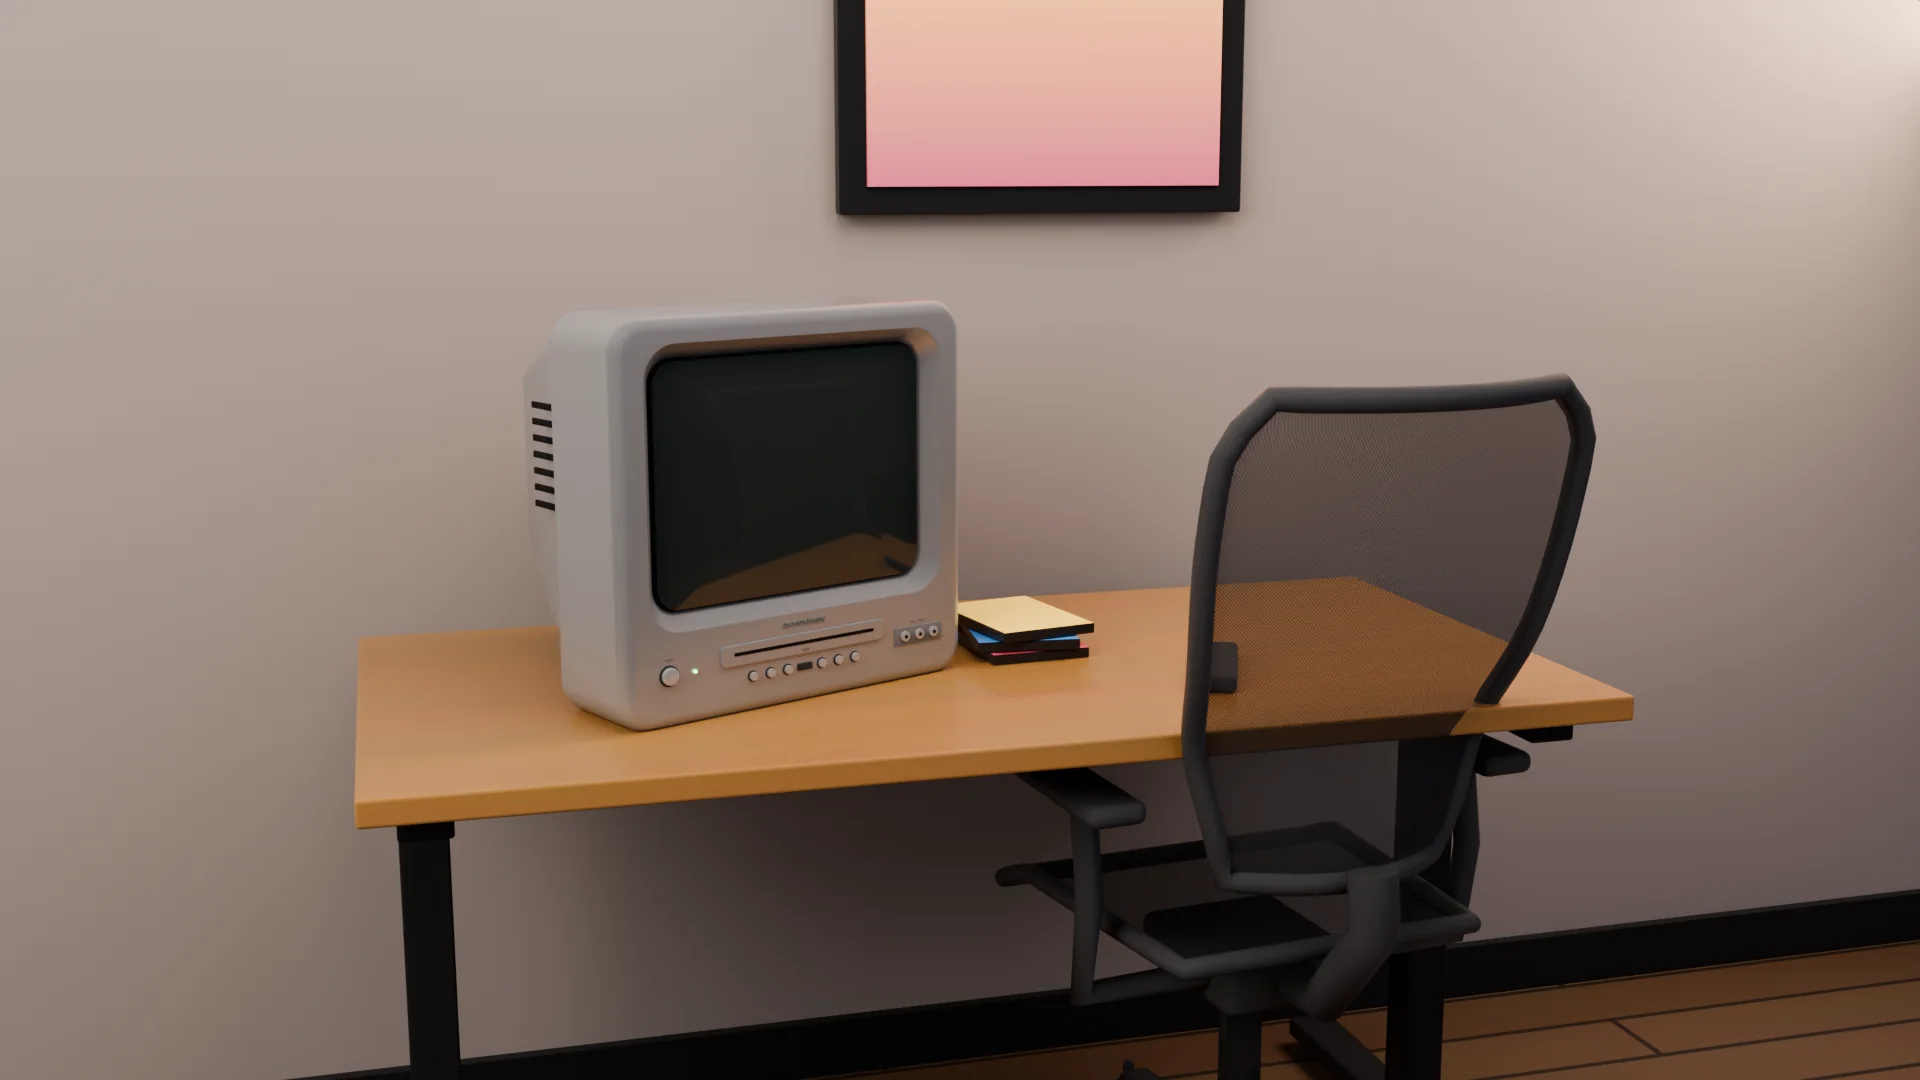
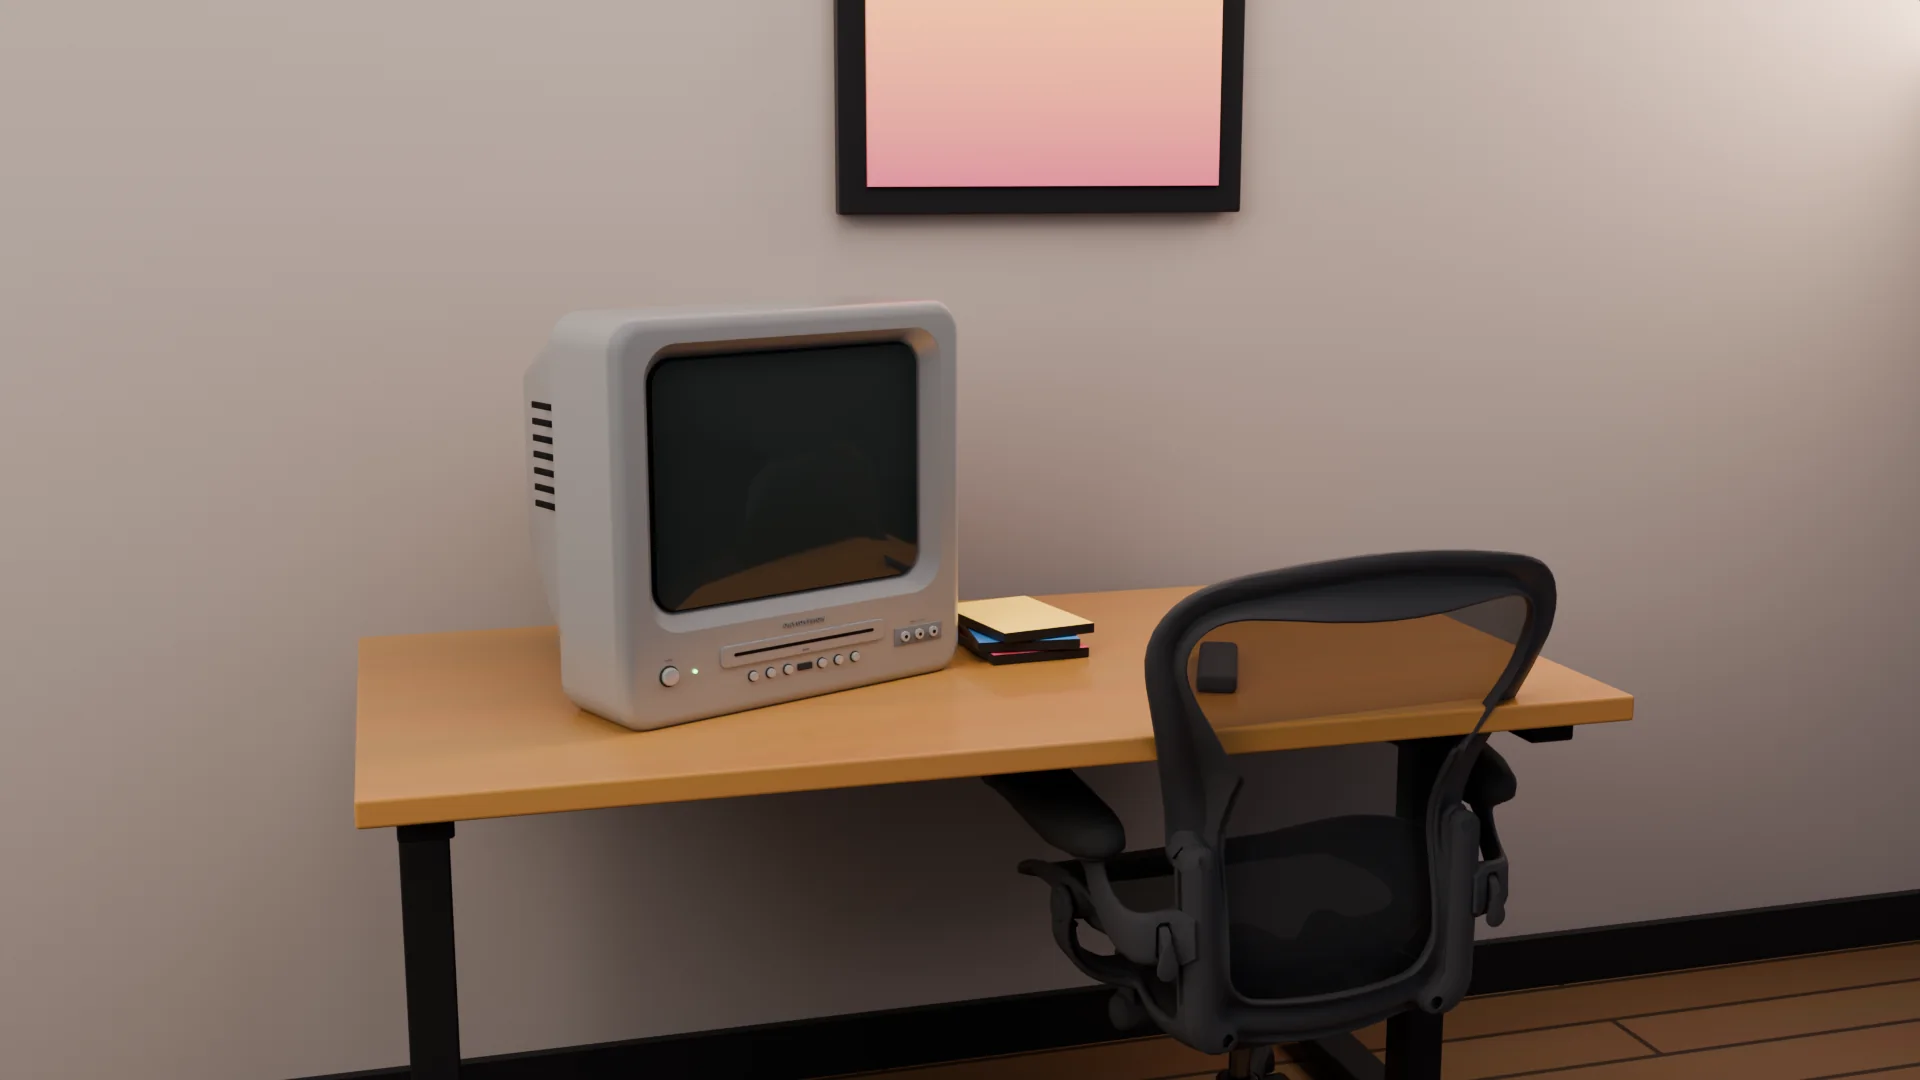
Use Herman Miller's official Aeron model in the desk scene (#10)
Replaces the hand-built chair with HM's Aeron B (fully adjustable arms)
AutoCAD 3D model, converted to OBJ with scripts/dwg_to_obj.mjs. The model
itself stays out of the repo (scripts/models/ is ignored).

Claude-Session: https://claude.ai/code/session_015thBKB6X8zqKZkDvYAUikM

Changed region(s): [[0.5, 0.3361, 0.8438, 1.0], [0.5625, 0.9778, 0.5938, 1.0]]

diff --git a/scripts/chair_model.py b/scripts/chair_model.py
@@ -1,176 +1,83 @@
-"""Mesh-back office chair in the shape of a Herman Miller Aeron (size B), in metres.
+"""Herman Miller Aeron (size B, fully adjustable arms), from Herman Miller's own 3D model.
+
+The model isn't kept in the repo. Download the "AutoCAD 3D" file from
+https://www.hermanmiller.com/resources/3d-models-and-planning-tools/product-models/individual/aeron-chair-b-size-fully-adjustable-arms/
+and convert it with scripts/dwg_to_obj.mjs to scripts/models/aeron.obj (or set AERON_OBJ).
 
 Faces +Y (toward the desk). build() returns an empty that everything is parented to,
-with its origin on the floor under the gas cylinder.
+with its origin on the floor under the gas cylinder. Units are metres.
 """
 import math
+import os
 
 import bpy
 import bmesh
-from mathutils import Vector
 
-SEAT_Z = 0.45
+OBJ = os.environ.get("AERON_OBJ", os.path.join(os.path.dirname(os.path.abspath(__file__)), "models", "aeron.obj"))
+INCH = 0.0254
 
 
-def _mat(name, color, rough=0.5, metallic=0.0, alpha=1.0, weave=False):
+def _mat(name, color, rough=0.5, metallic=0.0, weave=False):
     m = bpy.data.materials.new(name)
     m.use_nodes = True
-    p = m.node_tree.nodes["Principled BSDF"]
+    nt = m.node_tree
+    p = nt.nodes["Principled BSDF"]
     p.inputs["Base Color"].default_value = (*color, 1)
     p.inputs["Roughness"].default_value = rough
     p.inputs["Metallic"].default_value = metallic
     if weave:
-        # Pellicle: a fine see-through weave.
-        nt = m.node_tree
+        # Pellicle: a fine see-through weave (the model has no UVs, so use object space).
         tc = nt.nodes.new("ShaderNodeTexCoord")
         ck = nt.nodes.new("ShaderNodeTexChecker")
-        ck.inputs["Scale"].default_value = 260.0
+        ck.inputs["Scale"].default_value = 450.0
         ck.inputs["Color1"].default_value = (1, 1, 1, 1)
-        ck.inputs["Color2"].default_value = (0.45, 0.45, 0.45, 1)
-        nt.links.new(tc.outputs["UV"], ck.inputs["Vector"])
+        ck.inputs["Color2"].default_value = (0.4, 0.4, 0.4, 1)
+        nt.links.new(tc.outputs["Object"], ck.inputs["Vector"])
         mr = nt.nodes.new("ShaderNodeMapRange")
-        mr.inputs["To Min"].default_value = alpha - 0.2
-        mr.inputs["To Max"].default_value = alpha
+        mr.inputs["To Min"].default_value = 0.6
+        mr.inputs["To Max"].default_value = 0.85
         nt.links.new(ck.outputs["Fac"], mr.inputs["Value"])
         nt.links.new(mr.outputs["Result"], p.inputs["Alpha"])
-    elif alpha < 1:
-        p.inputs["Alpha"].default_value = alpha
     return m
-
-
-def _tube(name, pts, radius, material, cyclic=False, flat=1.0):
-    cu = bpy.data.curves.new(name, "CURVE")
-    cu.dimensions = "3D"
-    cu.bevel_depth = radius
-    cu.bevel_resolution = 4
-    cu.use_fill_caps = True
-    sp = cu.splines.new("POLY")
-    sp.points.add(len(pts) - 1)
-    for p, v in zip(sp.points, pts):
-        p.co = (*v, 1)
-    sp.use_cyclic_u = cyclic
-    ob = bpy.data.objects.new(name, cu)
-    bpy.context.scene.collection.objects.link(ob)
-    ob.data.materials.append(material)
-    return ob
-
-
-def _surface(name, fn, nu, nv, material):
-    """Grid surface from fn(u, v) -> (x, y, z), u and v in 0..1, with UVs."""
-    bm = bmesh.new()
-    uv = bm.loops.layers.uv.new()
-    vs = [[bm.verts.new(fn(i / nu, j / nv)) for i in range(nu + 1)] for j in range(nv + 1)]
-    for j in range(nv):
-        for i in range(nu):
-            f = bm.faces.new((vs[j][i], vs[j][i + 1], vs[j + 1][i + 1], vs[j + 1][i]))
-            for loop, (a, b) in zip(f.loops, [(i, j), (i + 1, j), (i + 1, j + 1), (i, j + 1)]):
-                loop[uv].uv = (a / nu, b / nv)
-    me = bpy.data.meshes.new(name)
-    bm.to_mesh(me)
-    for p in me.polygons:
-        p.use_smooth = True
-    ob = bpy.data.objects.new(name, me)
-    bpy.context.scene.collection.objects.link(ob)
-    ob.data.materials.append(material)
-    return ob, vs
-
-
-def _outline(fn, nu, nv):
-    """Points around the border of a _surface grid, in order."""
-    pts = [fn(i / nu, 0) for i in range(nu + 1)]
-    pts += [fn(1, j / nv) for j in range(1, nv + 1)]
-    pts += [fn(i / nu, 1) for i in range(nu - 1, -1, -1)]
-    pts += [fn(0, j / nv) for j in range(nv - 1, 0, -1)]
-    return pts
-
-
-def _box(name, size, loc, material, rot=(0, 0, 0), bevel=0.01):
-    bpy.ops.mesh.primitive_cube_add(size=1, location=loc, rotation=rot)
-    ob = bpy.context.object
-    ob.name = name
-    ob.scale = size
-    bpy.ops.object.transform_apply(scale=True)
-    m = ob.modifiers.new("b", "BEVEL")
-    m.width = bevel
-    m.segments = 4
-    bpy.ops.object.shade_smooth()
-    ob.data.materials.append(material)
-    return ob
-
-
-def _cyl(name, r, depth, loc, material, rot=(0, 0, 0)):
-    bpy.ops.mesh.primitive_cylinder_add(vertices=32, radius=r, depth=depth, location=loc, rotation=rot)
-    ob = bpy.context.object
-    ob.name = name
-    bpy.ops.object.shade_smooth()
-    ob.data.materials.append(material)
-    return ob
 
 
 def build():
     scene = bpy.context.scene
+    if not os.path.exists(OBJ):
+        raise SystemExit(f"Aeron model not found at {OBJ} (see scripts/chair_model.py)")
+    graphite = (0.03, 0.03, 0.033)
+    mats = {
+        "SEAT-FRAME": _mat("aeron_frame", graphite, rough=0.4),
+        "SEAT-CHASSIS": _mat("aeron_chassis", graphite, rough=0.45),
+        "SEAT-BASE": _mat("aeron_base", (0.04, 0.04, 0.045), rough=0.3, metallic=0.6),
+        "SEAT-SHAFT": _mat("aeron_shaft", (0.25, 0.25, 0.26), rough=0.2, metallic=1.0),
+        "SEAT-ARMPAD": _mat("aeron_armpad", (0.02, 0.02, 0.02), rough=0.55),
+        "SEAT-CASTER": _mat("aeron_caster", (0.01, 0.01, 0.01), rough=0.6),
+    }
+    mats["SEAT-FABRIC"] = mats["SEAT-FABRICBACK"] = _mat("aeron_pellicle", (0.02, 0.02, 0.022), rough=0.7, weave=True)
+
     before = set(scene.objects)
-    frame = _mat("aeron_frame", (0.035, 0.035, 0.038), rough=0.45)
-    alu = _mat("aeron_base", (0.05, 0.05, 0.055), rough=0.3, metallic=0.7)
-    mesh = _mat("aeron_pellicle", (0.02, 0.02, 0.022), rough=0.7, alpha=0.82, weave=True)
-    rubber = _mat("aeron_caster", (0.01, 0.01, 0.01), rough=0.6)
-
-    # Five-star base with casters.
-    for k in range(5):
-        a = math.radians(90 + k * 72)
-        d = Vector((math.cos(a), math.sin(a), 0))
-        leg = _box(f"leg{k}", (0.30, 0.05, 0.035), (0, 0, 0), alu, bevel=0.012)
-        leg.location = d * 0.16 + Vector((0, 0, 0.085))
-        leg.rotation_euler = (0, math.radians(6), a)
-        _cyl(f"caster{k}", 0.028, 0.035, tuple(d * 0.32 + Vector((0, 0, 0.032))), rubber,
-             rot=(math.pi / 2, 0, a + math.pi / 2))
-        _cyl(f"stem{k}", 0.008, 0.04, tuple(d * 0.32 + Vector((0, 0, 0.07))), alu)
-    _cyl("hub", 0.05, 0.06, (0, 0, 0.09), alu)
-    _cyl("column", 0.028, 0.26, (0, 0, 0.24), alu)
-    _box("mechanism", (0.20, 0.24, 0.06), (0, -0.02, SEAT_Z - 0.06), frame, bevel=0.015)
-
-    # Seat: a framed, slightly dished pellicle, wider at the front, waterfall edge.
-    def seat(u, v):
-        w = 0.40 + 0.08 * v                       # back (v=0) to front (v=1)
-        x = (u - 0.5) * w
-        y = -0.21 + v * 0.44
-        z = SEAT_Z + 0.02 - 0.018 * math.sin(math.pi * u) * math.sin(math.pi * v)
-        z -= 0.03 * max(0, v - 0.85) / 0.15      # waterfall front
-        return (x, y, z)
-    _surface("seat", seat, 16, 12, mesh)
-    _tube("seat_frame", _outline(seat, 16, 12), 0.013, frame, cyclic=True)
-
-    # Back: taller than wide, widest at the shoulders, cupped, leaning back, lumbar bulge.
-    lean = math.radians(14)
-    def back(u, v):
-        w = 0.29 + 0.18 * math.sin(min(1, v * 1.3) * math.pi / 2)
-        w *= 1 - 0.22 * (max(0, v - 0.86) / 0.14) ** 2   # rounded shoulders
-        s = (u - 0.5) * 2
-        x = s * w / 2
-        h = v * 0.60
-        cup = 0.06 * s * s
-        lumbar = 0.03 * math.exp(-((v - 0.28) / 0.14) ** 2)
-        y = -0.26 - h * math.sin(lean) + cup + lumbar
-        z = SEAT_Z + 0.12 + h * math.cos(lean)
-        return (x, y, z)
-    _surface("back", back, 16, 18, mesh)
-    _tube("back_frame", _outline(back, 16, 18), 0.014, frame, cyclic=True)
-
-    # Spine joining the back to the seat mechanism.
-    bx, by, bz = back(0.5, 0.0)
-    _tube("spine", [(0, -0.05, SEAT_Z - 0.06), (0, -0.20, SEAT_Z - 0.05), (0, by - 0.04, bz - 0.05),
-                    (0, by - 0.03, bz + 0.02)], 0.03, frame)
-
-    # Height-adjustable arms: post from under the seat, pad on top.
-    for side in (-1, 1):
-        x = side * 0.27
-        _tube(f"arm_post{side}", [(side * 0.10, -0.08, SEAT_Z - 0.05), (x, -0.08, SEAT_Z - 0.05),
-                                  (x, -0.10, SEAT_Z + 0.08), (x, -0.08, SEAT_Z + 0.19)], 0.017, frame)
-        _box(f"arm_pad{side}", (0.075, 0.24, 0.028), (x, -0.06, SEAT_Z + 0.205), frame, bevel=0.012)
+    bpy.ops.wm.obj_import(filepath=OBJ, forward_axis="Y", up_axis="Z")
+    parts = [ob for ob in scene.objects if ob not in before]
 
     rig = bpy.data.objects.new("chair", None)
     scene.collection.objects.link(rig)
-    for ob in set(scene.objects) - before - {rig}:
-        if ob.parent is None:
-            ob.parent = rig
+    for ob in parts:
+        me = ob.data
+        # 3DFACEs come in inches with mixed winding: scale to metres and face the
+        # chair's front (+X in the file) toward +Y.
+        bm = bmesh.new()
+        bm.from_mesh(me)
+        bmesh.ops.recalc_face_normals(bm, faces=bm.faces)
+        bm.to_mesh(me)
+        bm.free()
+        ob.scale = (INCH,) * 3
+        ob.rotation_euler = (0, 0, math.radians(90))
+        me.materials.clear()
+        me.materials.append(mats.get(ob.name.split(".")[0], mats["SEAT-FRAME"]))
+        ob.parent = rig
+    for ob in parts:
+        bpy.context.view_layer.objects.active = ob
+        ob.select_set(True)
+    bpy.ops.object.shade_smooth_by_angle(angle=math.radians(35))
     return rig

diff --git a/scripts/build_scene.py b/scripts/build_scene.py
@@ -1,5 +1,6 @@
-"""Render the opening scene: the TV turned slightly on a bamboo desk, with an
-office chair pushed in under the desk.
+"""Render the opening scene: the TV turned slightly on a bamboo desk, with a
+Herman Miller Aeron pushed in under the desk (needs scripts/models/aeron.obj,
+see chair_model.py).
 
 Writes, for each camera (desk = 16:9 desktop, phone = 9:16 portrait):
   OUTDIR/scene-<cam>.png        the beauty render (screen off)
@@ -162,7 +163,7 @@ nt.links.new(grad.outputs["Fac"], ramp.inputs["Fac"])
 nt.links.new(ramp.outputs["Color"], pp.inputs["Base Color"])
 cube("print", (0.54, 0.01, 0.38), (0.25, 0.414, 1.55), PRINT)
 
-# ---- Office chair pushed in under the desk ----
+# ---- Aeron pushed in under the desk ----
 chair = chair_model.build()
 chair.location = (0.34, -0.15, 0)
 chair.rotation_euler = (0, 0, math.radians(6))
